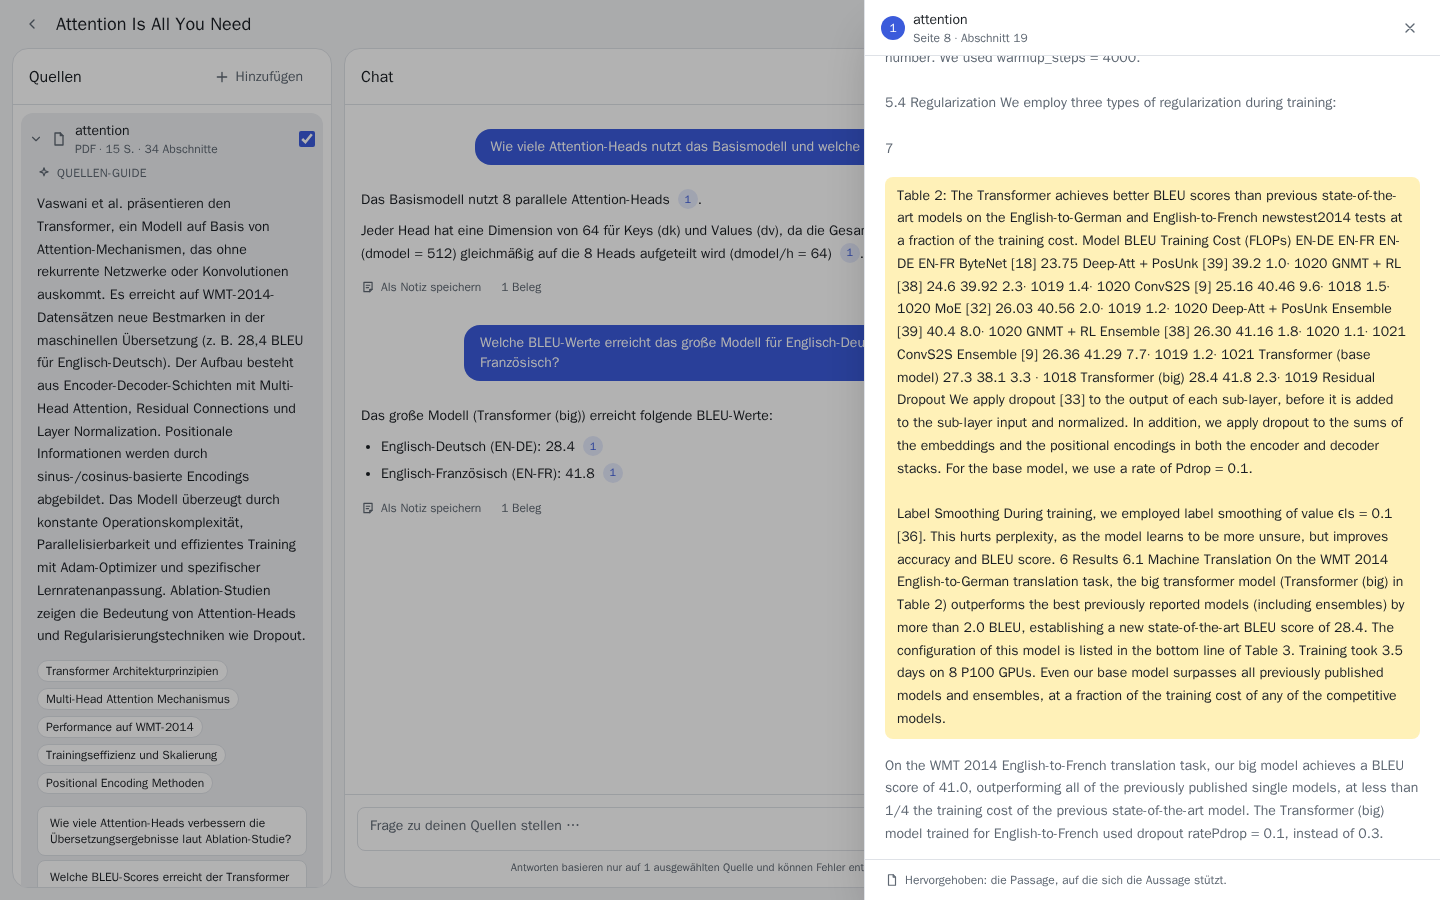
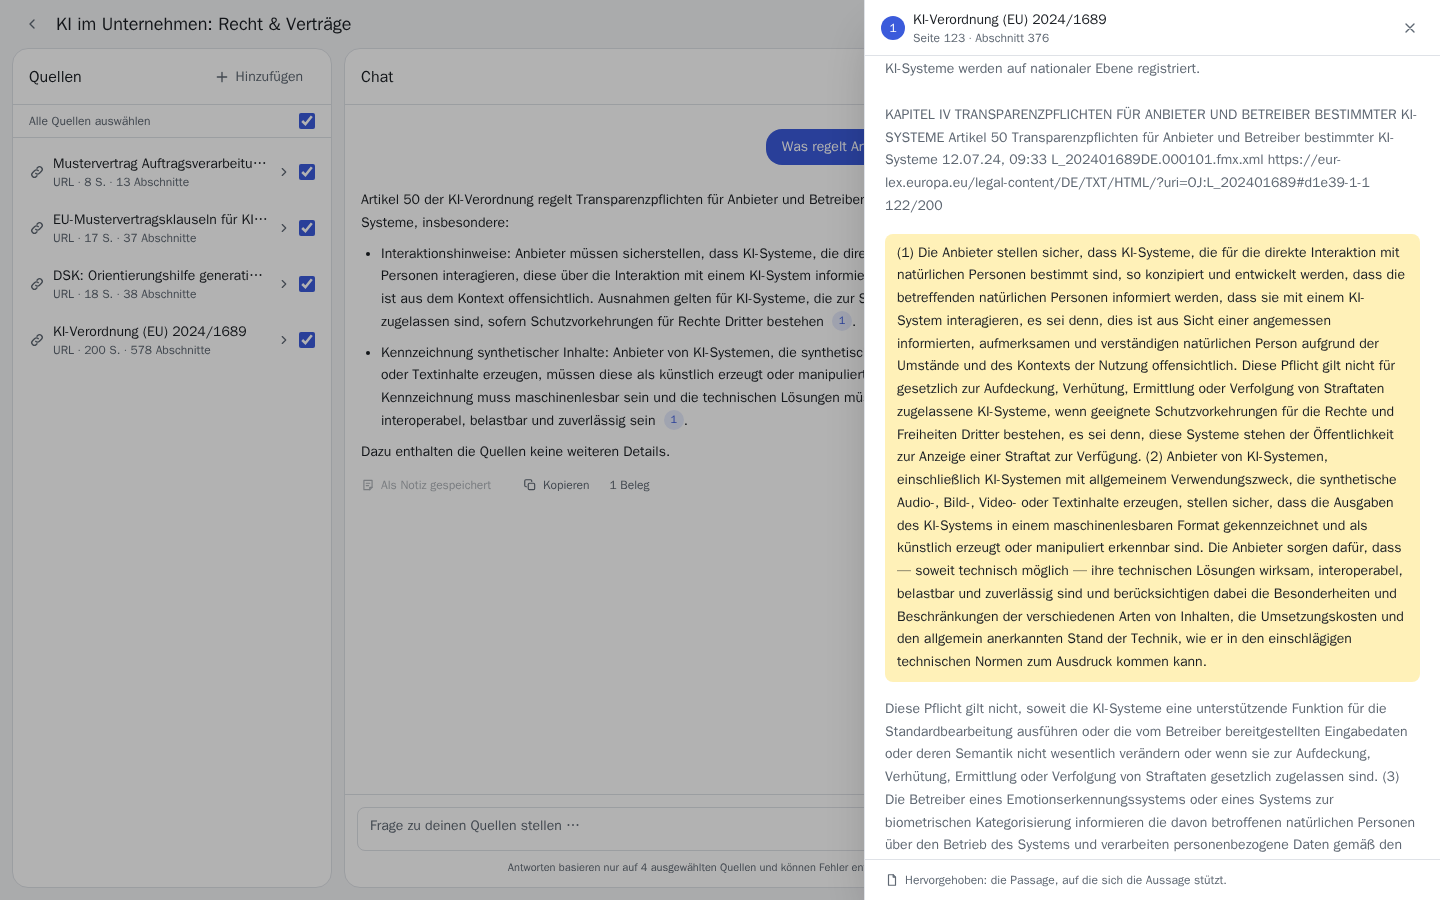
docs: refresh screenshots from the live instance
The old ones showed the source guide inside the sidebar and a note with
a flat "Quellen:" list -- both gone. They are now captured by a script
against a running instance, so they can be redone instead of retaken by
hand.

diff --git a/e2e/screenshots.py b/e2e/screenshots.py
@@ -1,0 +1,104 @@
+"""Regenerate the README screenshots from a running instance.
+
+Runs the same flow a reader sees in the README — open a source guide, ask a question, open a
+citation, save a note — and captures it in light, dark and mobile. Chat and notes of the target
+notebook are cleared before and after, so the shots are reproducible and nothing is left behind.
+
+    docker compose -f docker-compose.yml -f docker-compose.override.yml \\
+        -f e2e/docker-compose.e2e.yml run --rm \\
+        -e E2E_BASE_URL=https://notebook.example.org -e E2E_ACCESS_KEY=... \\
+        e2e sh -c "pip install -q playwright==1.55.0 && python screenshots.py"
+"""
+
+import os
+import re
+import sys
+from pathlib import Path
+
+from playwright.sync_api import expect, sync_playwright
+
+BASE = os.environ["E2E_BASE_URL"]
+KEY = os.environ["E2E_ACCESS_KEY"]
+NOTEBOOK = os.environ.get("SHOTS_NOTEBOOK", "KI im Unternehmen: Recht & Verträge")
+QUESTION = os.environ.get("SHOTS_QUESTION", "Was regelt Artikel 50 der KI-Verordnung?")
+GUIDE_SOURCE = os.environ.get("SHOTS_SOURCE", "KI-Verordnung")
+OUT = Path(os.environ.get("SHOTS_OUT", "/e2e/out/readme"))
+CHIP = re.compile(r"^Quelle \d+:")
+
+
+def step(name: str) -> None:
+    print(f"-> {name}", flush=True)
+
+
+OUT.mkdir(parents=True, exist_ok=True)
+
+with sync_playwright() as p:
+    api = p.request.new_context(base_url=BASE, extra_http_headers={"X-Access-Key": KEY})
+    notebooks = api.get("/api/notebooks").json()
+    notebook = next((n for n in notebooks if n["title"] == NOTEBOOK), None)
+    if notebook is None:
+        sys.exit(f"notebook {NOTEBOOK!r} not found on {BASE}")
+
+    def reset() -> None:
+        api.delete(f"/api/notebooks/{notebook['id']}/messages")
+        for note in api.get(f"/api/notebooks/{notebook['id']}/notes").json():
+            api.delete(f"/api/notes/{note['id']}")
+
+    reset()
+    url = f"{BASE}/#/notebook/{notebook['id']}"
+
+    browser = p.chromium.launch()
+    context = browser.new_context(viewport={"width": 1440, "height": 900}, color_scheme="light")
+    context.add_init_script(f"localStorage.setItem('notebook.accessKey', {KEY!r})")
+    page = context.new_page()
+    page.goto(url)
+
+    step("source guide in the main column")
+    page.get_by_role("button", name=re.compile("^" + re.escape(GUIDE_SOURCE))).first.click()
+    guide = page.get_by_role("region", name="Quelle", exact=True)
+    expect(guide.get_by_text("QUELLEN-GUIDE")).to_be_visible(timeout=30_000)
+    page.screenshot(path=OUT / "guide.png")
+
+    step("ask and save the answer as a note")
+    guide.get_by_role("button", name="Zum Chat").click()
+    page.get_by_label("Frage").fill(QUESTION)
+    page.get_by_label("Senden").click()
+    chips = page.get_by_role("button", name=CHIP)
+    expect(chips.first).to_be_visible(timeout=120_000)
+    page.get_by_role("button", name="Als Notiz speichern").last.click()
+    notes = page.get_by_role("region", name="Notizen")
+    expect(notes.get_by_text(QUESTION)).to_be_visible()
+    # open it: the point of the shot is that the citations stay clickable inside a note
+    notes.get_by_text(QUESTION).click()
+    expect(notes.get_by_role("button", name=CHIP).first).to_be_visible()
+    page.screenshot(path=OUT / "notebook.png")
+
+    step("citation viewer")
+    chips.first.click()
+    drawer = page.get_by_role("dialog")
+    expect(drawer.locator("mark")).to_be_visible()
+    page.screenshot(path=OUT / "citation.png")
+    page.keyboard.press("Escape")
+
+    step("dark mode")
+    dark = browser.new_context(viewport={"width": 1440, "height": 900}, color_scheme="dark")
+    dark.add_init_script(f"localStorage.setItem('notebook.accessKey', {KEY!r})")
+    dark_page = dark.new_page()
+    dark_page.goto(url)
+    expect(dark_page.get_by_role("button", name=CHIP).first).to_be_visible(timeout=30_000)
+    dark_page.screenshot(path=OUT / "dark.png")
+
+    step("mobile")
+    mobile = browser.new_context(
+        viewport={"width": 390, "height": 844}, is_mobile=True, has_touch=True
+    )
+    mobile.add_init_script(f"localStorage.setItem('notebook.accessKey', {KEY!r})")
+    mobile_page = mobile.new_page()
+    mobile_page.goto(url)
+    expect(mobile_page.get_by_role("region", name="Chat")).to_be_visible(timeout=30_000)
+    mobile_page.screenshot(path=OUT / "mobile.png")
+
+    browser.close()
+    reset()
+
+print(f"\nScreenshots in {OUT}")

diff --git a/README.md b/README.md
@@ -8,9 +8,11 @@ Aussage mit einem klickbaren Beleg, der die Originalpassage öffnet.
 Entstanden als Bewerbungsaufgabe in einer 3-Tage-Zeitbox. Vorgehen und Status: [plan.md](plan.md),
 Entscheidungen: [docs/adr/](docs/adr/README.md), Arbeit mit AI-Tools: [docs/prompts.md](docs/prompts.md).
 
-![Notebook mit Quellen-Guide, Chat mit Belegen und gespeicherter Notiz](docs/screenshots/notebook.png)
+![Quellenliste, Antwort mit Belegen und dieselbe Antwort als Notiz – die Belege bleiben dort klickbar](docs/screenshots/notebook.png)
 
-<sub>Echter Durchlauf mit `ministral-14b-latest` und dem Paper „Attention Is All You Need“ (arXiv 1706.03762).</sub>
+<sub>Echter Durchlauf auf der Live-Instanz mit `ministral-14b-latest` und dem Demo-Notebook
+(KI-Verordnung, DSK-Leitlinie, Mustervertragsklauseln, Auftragsverarbeitungsvertrag).
+Aufgenommen mit [e2e/screenshots.py](e2e/screenshots.py).</sub>
 
 ## Funktionen
 
@@ -27,9 +29,13 @@ Entscheidungen: [docs/adr/](docs/adr/README.md), Arbeit mit AI-Tools: [docs/prom
 
 Bewusst nicht enthalten: Audio Overview, Mind Map, YouTube/Audio-Quellen, Multi-User.
 
-| Zitat-Viewer | Dunkelmodus | Mobil |
-|---|---|---|
-| ![Klick auf ein Zitat öffnet die hervorgehobene Passage](docs/screenshots/citation.png) | ![Dunkelmodus](docs/screenshots/dark.png) | <img src="docs/screenshots/mobile.png" alt="Mobile Ansicht mit Tabs" width="220"> |
+| Quellen-Guide | Zitat-Viewer |
+|---|---|
+| ![Zusammenfassung, Kernthemen und Fragevorschläge einer Quelle in der Hauptspalte](docs/screenshots/guide.png) | ![Klick auf ein Zitat öffnet die hervorgehobene Passage](docs/screenshots/citation.png) |
+
+| Dunkelmodus | Mobil |
+|---|---|
+| ![Dunkelmodus](docs/screenshots/dark.png) | <img src="docs/screenshots/mobile.png" alt="Mobile Ansicht mit Tabs" width="220"> |
 
 ## Architektur
 
@@ -133,6 +139,10 @@ docker compose up -d --remove-orphans   # danach zurück zur normalen Konfigurat
 Beim ersten Lauf wird das Transformer-Paper (arXiv 1706.03762) als Test-PDF geladen; Screenshots
 liegen anschließend in `e2e/out/`. Mit `E2E_IMPORT_URL=https://…` wird zusätzlich der URL-Import
 getestet.
+
+Die Screenshots in diesem README erzeugt [e2e/screenshots.py](e2e/screenshots.py) gegen eine
+laufende Instanz — Chat und Notizen des Ziel-Notebooks werden davor und danach geleert, die
+Bilder sind also wiederholbar.
 
 ## Projektstruktur
 
